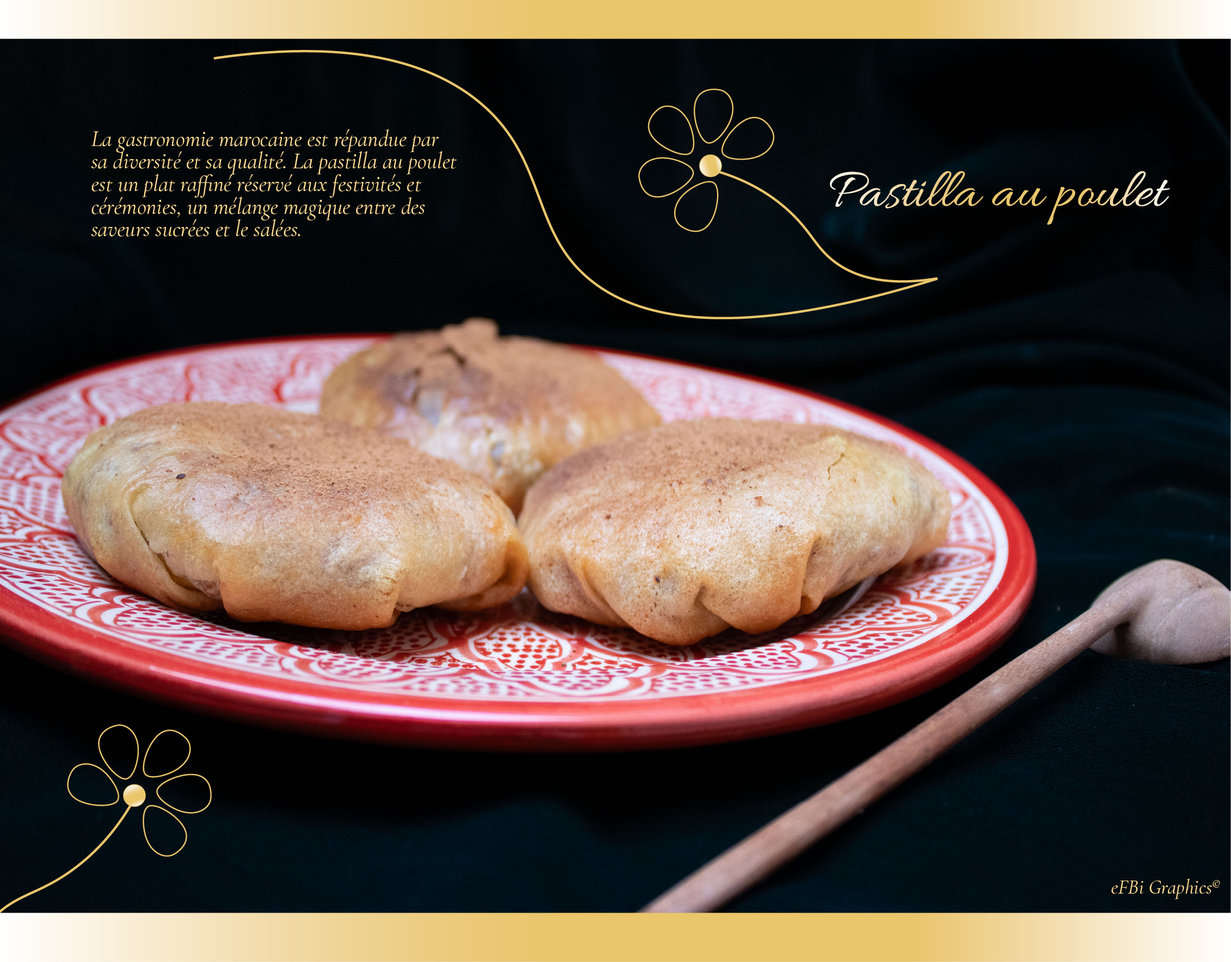
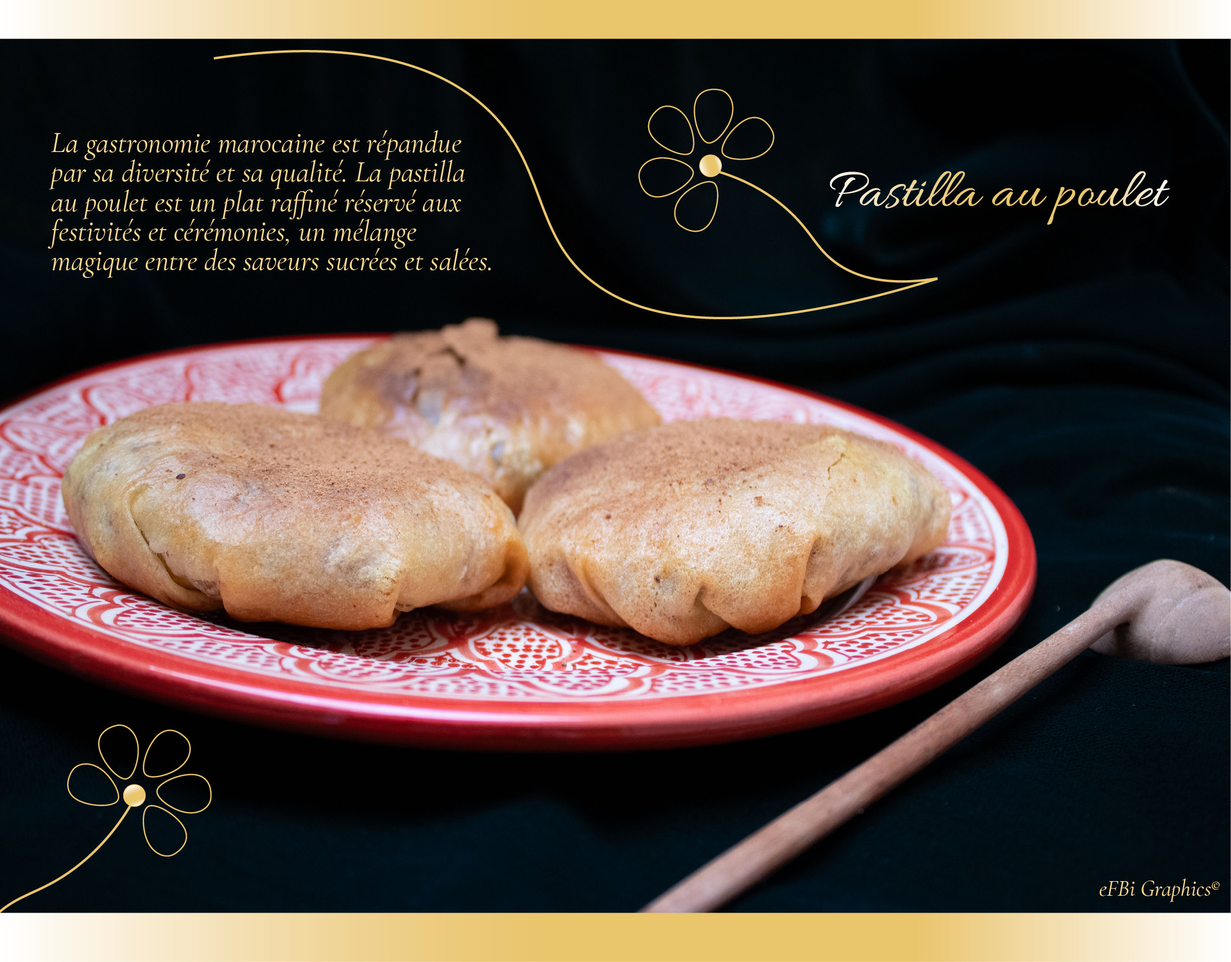
docs: generate a new version of pastilla image and add it to portfolio page

Changed region(s): [[0.0309, 0.1242, 0.4012, 0.2793], [0.8951, 0.9001, 0.9877, 0.9312]]

diff --git a/portfolio/index.php b/portfolio/index.php
@@ -213,7 +213,7 @@ echo <<<HTML
 				<img
 				class="cover"
 				id="layout-3"
-				src="../assets/img/books-covers/layout-3.jpg"
+				src="../assets/img/pastilla.jpg"
 				alt="Aperçu d'un travail personnel" />
 				<hr class="horizontal" id="hr5"/>
 				<img
